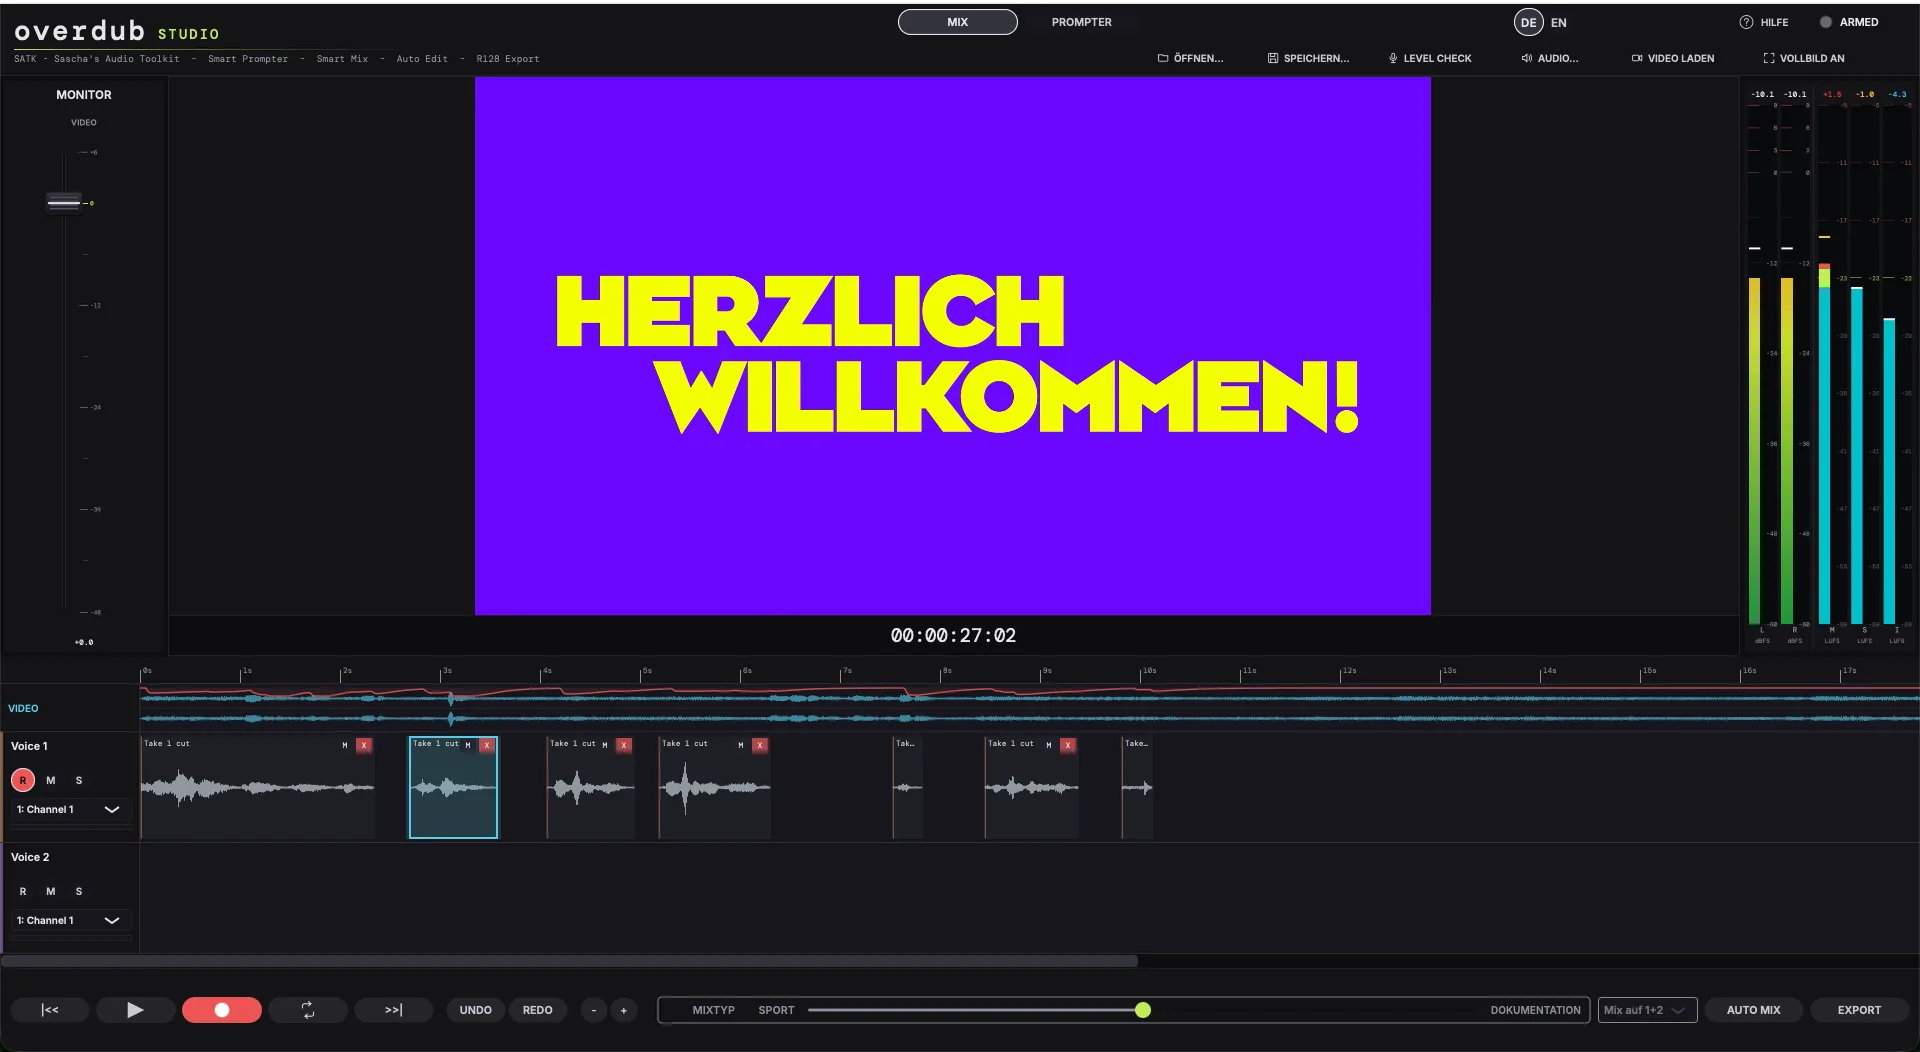
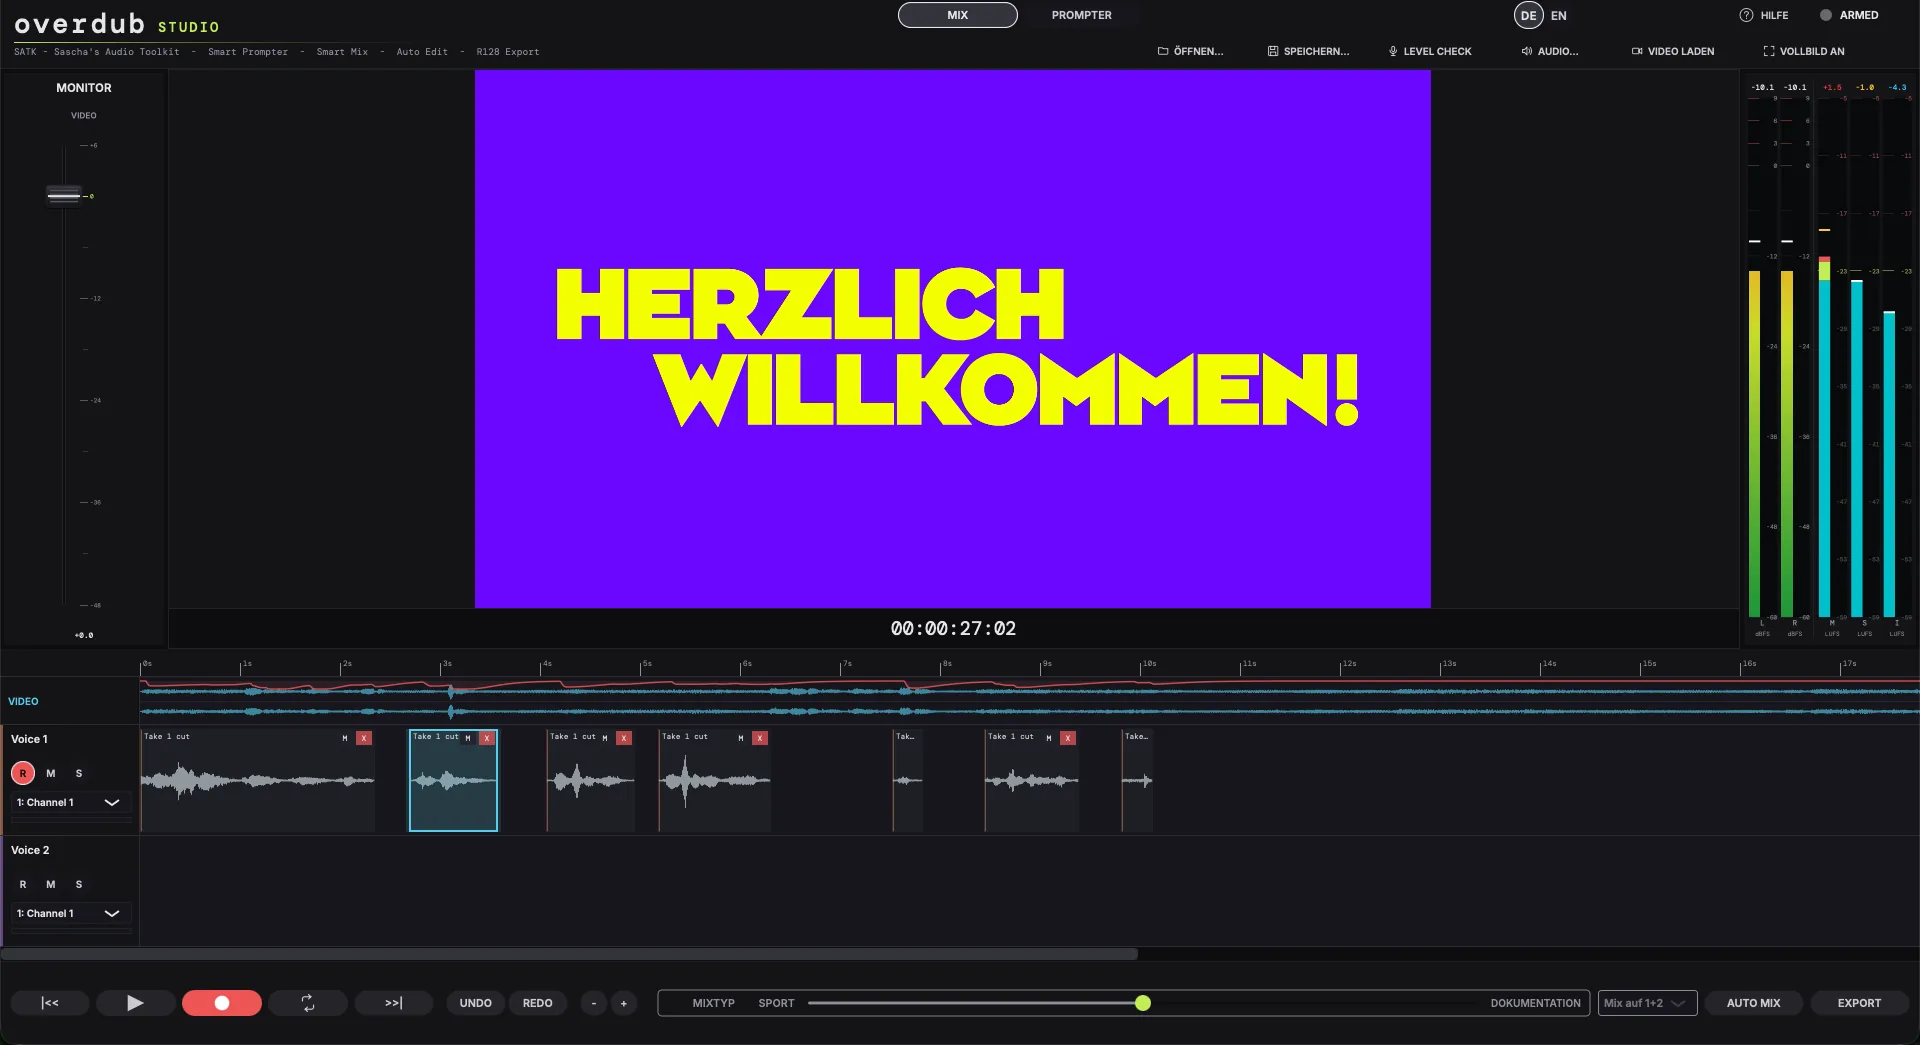
OD-Bilder: weisser Padding-Rand entfernt + Cache-Buster ?v=3
Problem: nach dem 28px-Crop blieben 1-2 weisse Pixel oben — der
Padding-Rand aus dem macOS-Window-Screenshot (Cmd+Shift+4 + Space)
war 30px hoch, nicht 28. Im Card-Layout fiel das als heller
Rand vor dunklem Card-Hintergrund auf.

Fix: aus dem Original frisch geschnitten mit 35px Crop. Top-Pixel
ist jetzt rgb(19,19,22), passt in den --bg-Ton der Cards.

Plus ?v=3-Cache-Buster auf allen img-overdub-studio refs (auch
JSON-LD), damit CF-Edge die alte Datei nicht weiter ausliefert.
Existing ?v=2 auf overdub-studio-ios.html mitgezogen auf ?v=3.

diff --git a/overdub-studio-pro.html b/overdub-studio-pro.html
@@ -37,8 +37,8 @@
   "applicationSubCategory": "Voice-Over Recording",
   "operatingSystem": "macOS 13+, iPadOS 16+",
   "url": "https://satk.tech/overdub-studio-pro",
-  "image": "https://satk.tech/img-overdub-studio.webp",
-  "screenshot": "https://satk.tech/img-overdub-studio.webp",
+  "image": "https://satk.tech/img-overdub-studio.webp?v=3",
+  "screenshot": "https://satk.tech/img-overdub-studio.webp?v=3",
   "offers": {
     "@type": "Offer",
     "name": "Standalone macOS",
@@ -209,7 +209,7 @@ footer{padding:72px 48px 36px;margin-top:120px;border-top:1px solid rgba(255,255
 </section>
 
 <div class="hero-img-wrap">
-  <img class="hero-img" src="img-overdub-studio.webp" alt="SATK Overdub Studio Interface">
+  <img class="hero-img" src="img-overdub-studio.webp?v=3" alt="SATK Overdub Studio Interface">
 </div>
 
 <section class="section">
@@ -253,7 +253,7 @@ footer{padding:72px 48px 36px;margin-top:120px;border-top:1px solid rgba(255,255
   <figure class="prompter-figure">
     <div class="prompter-eyebrow" data-i18n="od_prompter_eyebrow">Smart Prompter · Detailansicht</div>
     <p class="prompter-sub" data-i18n="od_prompter_sub">Skript links, Video rechts. Der Text scrollt automatisch mit deiner Stimme – du behältst die Leseposition, ohne mit der Maus zu navigieren.</p>
-    <img src="img-overdub-studio-prompter.webp" loading="lazy" alt="SATK Overdub Studio — Prompter-Ansicht: Skript links, Video rechts, Text läuft mit der Stimme mit">
+    <img src="img-overdub-studio-prompter.webp?v=3" loading="lazy" alt="SATK Overdub Studio — Prompter-Ansicht: Skript links, Video rechts, Text läuft mit der Stimme mit">
     <figcaption data-i18n="od_prompter_caption">Aufgenommen im SATK Overdub Studio — macOS-Version</figcaption>
   </figure>
 </section>

diff --git a/overdub-studio-ios.html b/overdub-studio-ios.html
@@ -36,8 +36,8 @@
   "applicationSubCategory": "Voice-Over / Mixing",
   "operatingSystem": "iPadOS 16+",
   "url": "https://satk.tech/overdub-studio-ios",
-  "image": "https://satk.tech/img-overdub-studio.webp",
-  "screenshot": "https://satk.tech/img-overdub-studio.webp",
+  "image": "https://satk.tech/img-overdub-studio.webp?v=3",
+  "screenshot": "https://satk.tech/img-overdub-studio.webp?v=3",
   "offers": {
     "@type": "Offer",
     "name": "Apple App Store",
@@ -199,7 +199,7 @@ footer{padding:72px 48px 36px;margin-top:120px;border-top:1px solid rgba(255,255
 </section>
 
 <div class="hero-img-wrap">
-  <img class="hero-img" src="img-overdub-studio.webp?v=2" alt="SATK voiceover STUDIO — iPad-Layout-Mockup (Mac-Version dargestellt)">
+  <img class="hero-img" src="img-overdub-studio.webp?v=3" alt="SATK voiceover STUDIO — iPad-Layout-Mockup (Mac-Version dargestellt)">
   <div class="hero-caption" data-i18n="od_hero_caption">Mockup mit Mac-Layout · iPad-Screenshots folgen mit der ersten Beta</div>
 </div>
 

diff --git a/mac.html b/mac.html
@@ -279,7 +279,7 @@ footer{padding:72px 48px 36px;margin-top:120px;border-top:1px solid rgba(255,255
     <!-- ╔══ Overdub Studio (Standalone macOS + Mac App) ══════════╗ -->
     <div class="card">
       <a href="overdub-studio-pro.html" class="card-img">
-        <img src="img-overdub-studio.webp" alt="SATK Overdub Studio — zur Detailseite">
+        <img src="img-overdub-studio.webp?v=3" alt="SATK Overdub Studio — zur Detailseite">
       </a>
       <div class="card-body">
         <div class="card-name">Overdub Studio</div>

diff --git a/ios.html b/ios.html
@@ -298,7 +298,7 @@ footer{padding:72px 48px 36px;margin-top:120px;border-top:1px solid rgba(255,255
     <!-- ╔══ Voiceover Studio (iPad) — App Store URL TODO ═══════╗ -->
     <div class="card">
       <a href="overdub-studio-ios.html" class="card-img">
-        <img src="img-overdub-studio.webp" alt="SATK Voiceover Studio — iPad">
+        <img src="img-overdub-studio.webp?v=3" alt="SATK Voiceover Studio — iPad">
       </a>
       <div class="card-body">
         <div class="card-name">Voiceover Studio</div>

diff --git a/index.html b/index.html
@@ -273,7 +273,7 @@ footer{padding:72px 48px 36px;margin-top:120px;border-top:1px solid rgba(255,255
   <div class="platforms-grid">
     <a href="/mac" class="platform-card">
       <div class="platform-card-img">
-        <img src="img-overdub-studio.webp" alt="Mac Apps — Standalone für macOS">
+        <img src="img-overdub-studio.webp?v=3" alt="Mac Apps — Standalone für macOS">
       </div>
       <div class="platform-card-body">
         <span class="platform-tag">macOS</span>
